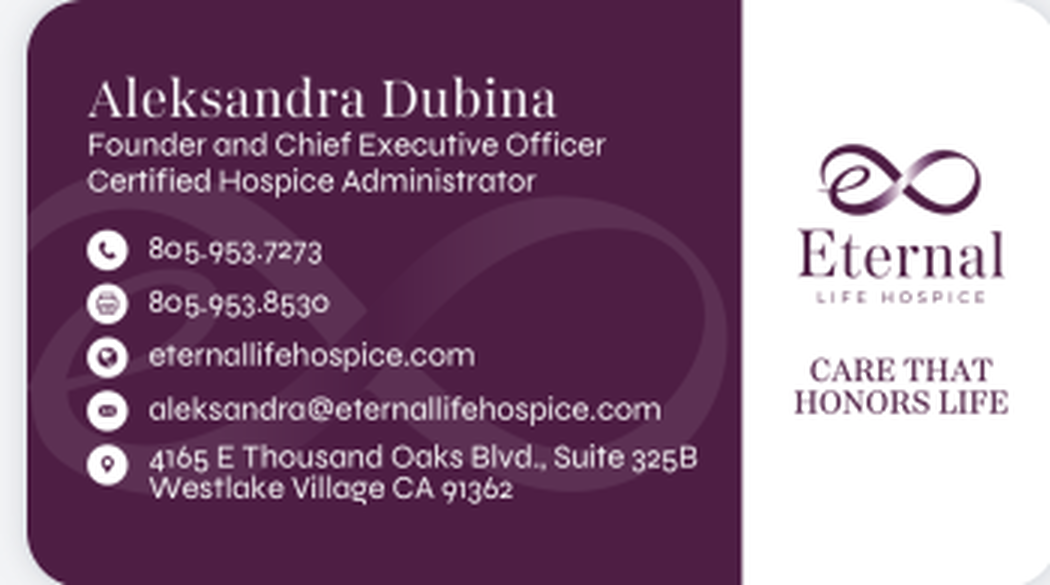
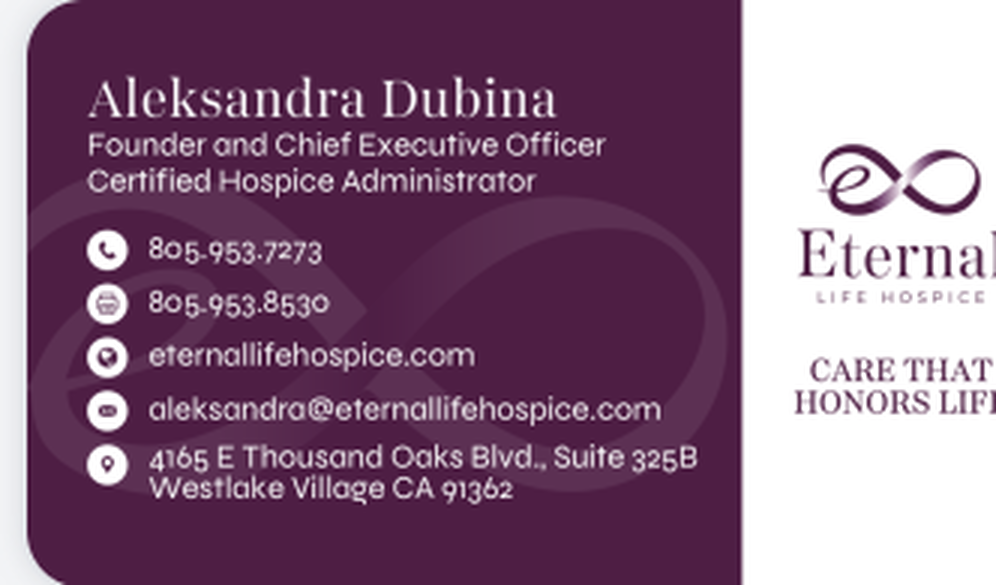
Adjust header and card images to improve visual presentation
Update header padding to prevent logo overlap, re-crop card images for accurate sizing, and adjust aspect ratio for the flip scene component.

Replit-Commit-Author: Agent
Replit-Commit-Session-Id: 1b958849-79a5-4566-be53-e68529931cd0
Replit-Commit-Checkpoint-Type: full_checkpoint
Replit-Commit-Event-Id: a117967a-c296-499c-924c-3dffc4dc29a2
Replit-Commit-Screenshot-Url: https://storage.googleapis.com/screenshot-production-us-central1/e1b2f643-7869-4565-af0e-10c34575ee8d/1b958849-79a5-4566-be53-e68529931cd0/Gm56UK7
Replit-Helium-Checkpoint-Created: true

diff --git a/website/elh-preview/card-aleksandra-dubina.html b/website/elh-preview/card-aleksandra-dubina.html
@@ -14,7 +14,7 @@ body{background:#F5F0EB;font-family:Arial,Helvetica,sans-serif;min-height:100vh;
 .card{width:100%;max-width:420px;background:#fff;box-shadow:0 4px 32px rgba(61,20,84,.13);}
 
 /* Header band */
-.hd{background:#3C1C3B;padding:18px 24px 44px;text-align:center;}
+.hd{background:#3C1C3B;padding:18px 24px 62px;text-align:center;}
 .hd img{height:64px;width:auto;}
 
 /* Photo + LinkedIn badge */
@@ -52,7 +52,7 @@ body{background:#F5F0EB;font-family:Arial,Helvetica,sans-serif;min-height:100vh;
 .flip-section{padding:24px 20px 0;}
 .flip-label{text-align:center;font-size:9px;letter-spacing:1.5px;text-transform:uppercase;color:#8A7080;margin-bottom:10px;}
 
-.flip-scene{width:100%;aspect-ratio:350/195;perspective:900px;cursor:pointer;}
+.flip-scene{width:100%;aspect-ratio:332/195;perspective:900px;cursor:pointer;}
 .flip-inner{width:100%;height:100%;position:relative;transform-style:preserve-3d;transition:transform .55s cubic-bezier(.4,0,.2,1);}
 .flip-inner.flipped{transform:rotateY(180deg);}
 
